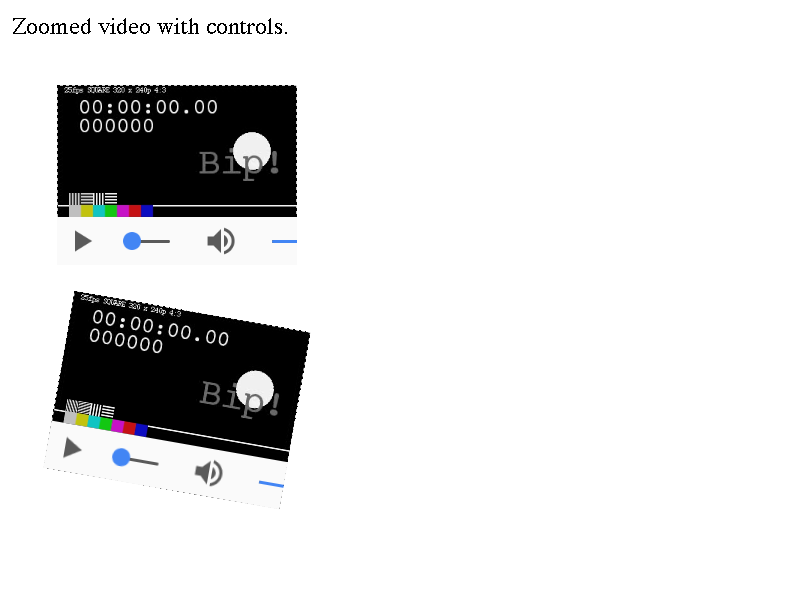
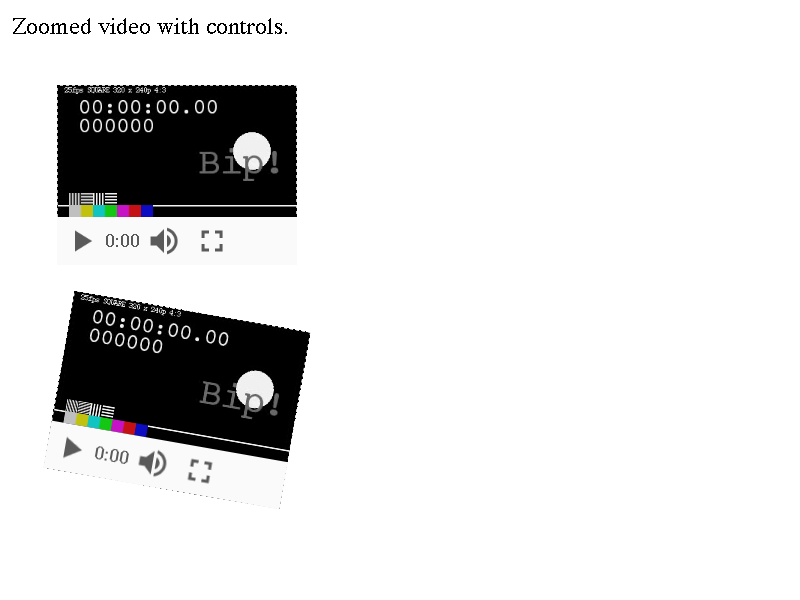
Media Controls: take into consideration high margin on some elements.
When computing the width required to show the controls, we should
take into consideration elements with a large margin. It is in
general better to overestimate that under estimate to avoid buttons
being cut.

BUG=650670
TEST=Manual testing on https://mounirlamouri.github.io/sandbox/media/dynamic-controls.html

Review-Url: https://codereview.chromium.org/2374733002
Cr-Original-Commit-Position: refs/heads/master@{#422246}
Cr-Mirrored-From: https://chromium.googlesource.com/chromium/src
Cr-Mirrored-Commit: c8b4bc2d7895981dcdc674e69c9691271dc0c483

diff --git a/WebKit/Source/core/html/shadow/MediaControls.cpp b/WebKit/Source/core/html/shadow/MediaControls.cpp
@@ -731,6 +731,10 @@ void MediaControls::computeWhichControlsFit()
 
     int usedWidth = 0;
 
+    // TODO(mlamouri): we need a more dynamic way to find out the width of an
+    // element.
+    const int sliderMargin = 36; // Sliders have 18px margin on each side.
+
     // Assume that all controls require 48px, unless we can get the computed
     // style for the play button.  Since the play button or overflow is always
     // shown, one of the two buttons should be available the first time we're
@@ -772,13 +776,18 @@ void MediaControls::computeWhichControlsFit()
     for (MediaControlElement* element : elements) {
         if (!element)
             continue;
+        int width = minimumWidth;
+        if ((element == m_timeline.get()) || (element == m_volumeSlider.get()))
+            width += sliderMargin;
         element->shouldShowButtonInOverflowMenu(false);
         if (element->isWanted()) {
-            if (usedWidth + minimumWidth <= m_panelWidth) {
+            if (usedWidth + width <= m_panelWidth) {
                 element->setDoesFit(true);
-                usedWidth += minimumWidth;
+                usedWidth += width;
             } else {
                 element->setDoesFit(false);
+                // TODO(mlamouri): we should probably no longer mark the cast
+                // button as dropped, it should appear in the overflow menu.
                 if (element == m_castButton.get())
                     droppedCastButton = true;
                 element->shouldShowButtonInOverflowMenu(true);
@@ -798,8 +807,14 @@ void MediaControls::computeWhichControlsFit()
     // overflow menu.
     if (overflowElements.empty()) {
         m_overflowMenu->setIsWanted(false);
-        if (firstDisplacedElement)
-            firstDisplacedElement->setDoesFit(true);
+        usedWidth -= minimumWidth;
+        if (firstDisplacedElement) {
+            int width = minimumWidth;
+            if ((firstDisplacedElement == m_timeline.get()) || (firstDisplacedElement == m_volumeSlider.get()))
+                width += sliderMargin;
+            if (usedWidth + width <= m_panelWidth)
+                firstDisplacedElement->setDoesFit(true);
+        }
     } else if (overflowElements.size() == 1) {
         m_overflowMenu->setIsWanted(false);
         overflowElements.front()->setDoesFit(true);
